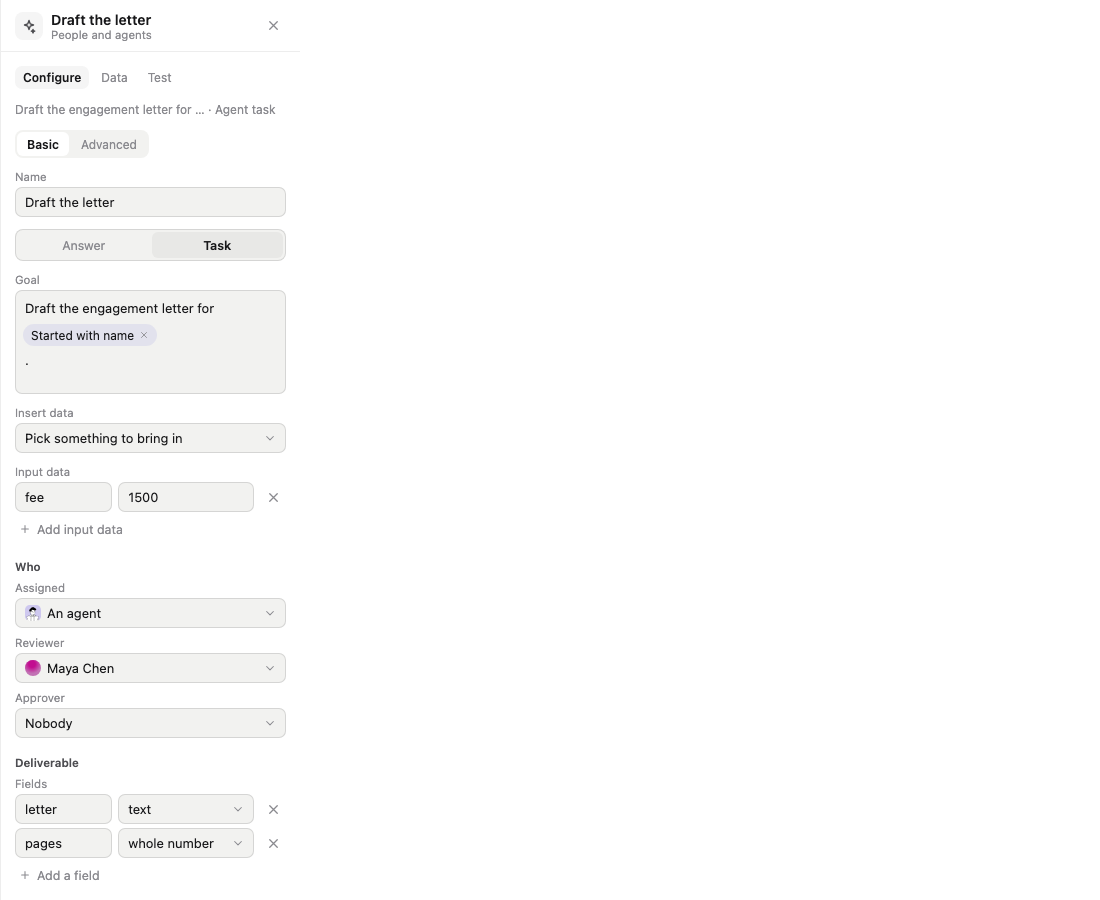
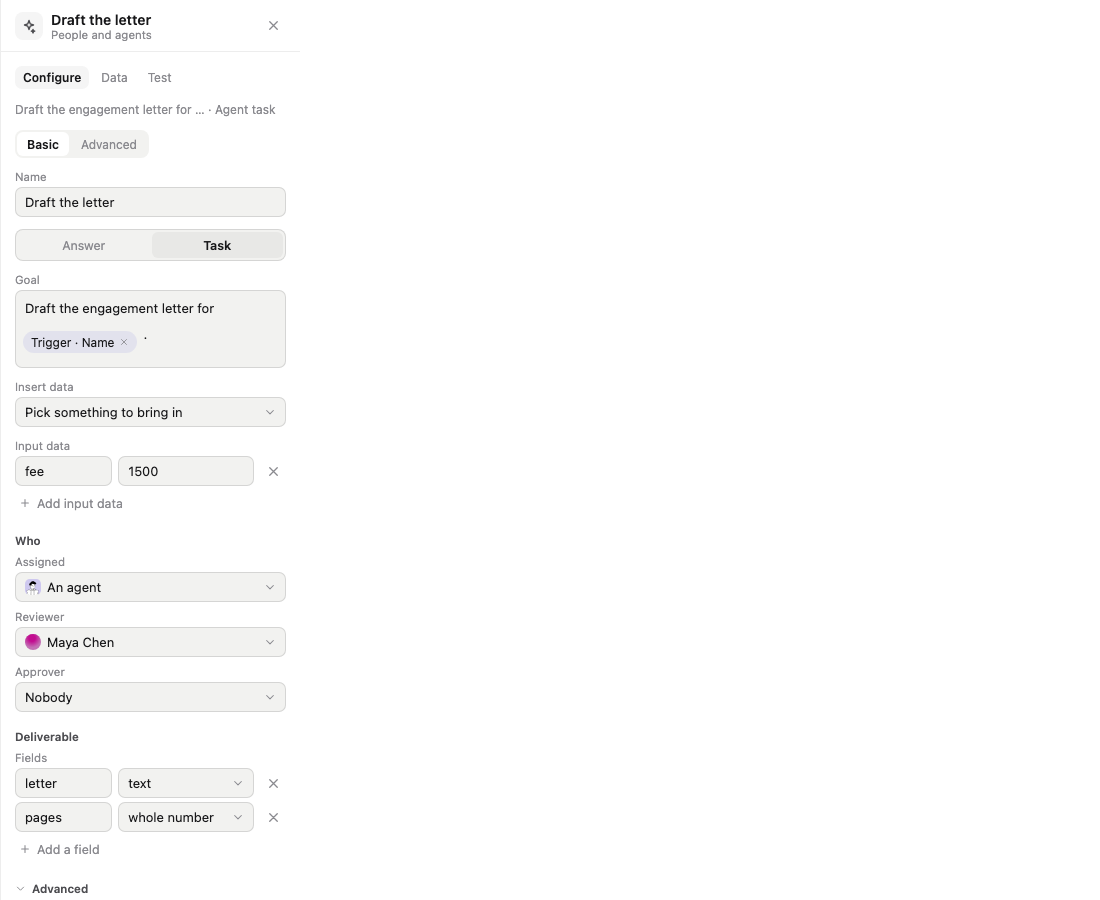
feat(ui): chip reads Trigger · Name and sits inline, shots of My work and the agent page

Changed region(s): [[0.0, 0.5911, 0.2164, 0.9956], [0.0, 0.3733, 0.1855, 0.5911]]

diff --git a/apps/app/src/places/chats/agentpage/WorkingOn.tsx b/apps/app/src/places/chats/agentpage/WorkingOn.tsx
@@ -1,4 +1,4 @@
-// "Working on" on the agent page (work baton): the tasks whose baton is with this agent right now, each with where it is in its steps. Nothing is drawn when the agent holds none, so a page of
+// "Tasks it holds" on the agent page (work baton; the Chats tab already has its own "Working on"): the tasks whose baton is with this agent right now, each with where it is in its steps. Nothing is drawn when the agent holds none, so a page of
 // an agent that does no task work stays as it was. A tap opens the task. Read through tasks.list as the person looking; a list that cannot be read draws nothing.
 import { useEffect, useState } from "react";
 import type { ReactElement } from "react";
@@ -40,8 +40,8 @@ export function WorkingOn(): ReactElement | null {
   }, [data, agentId]);
   if (held.length === 0) return null;
   return (
-    <View testID="working-on" accessibilityLabel="Working on" style={s.box}>
-      <Text accessibilityRole="header" style={s.head}>{`Working on  ${held.length}`}</Text>
+    <View testID="working-on" accessibilityLabel="Tasks it holds" style={s.box}>
+      <Text accessibilityRole="header" style={s.head}>{`Tasks it holds  ${held.length}`}</Text>
       {/* ui-rows-lint: not a list (the few tasks the agent holds, under its header) */}
       {held.slice(0, SHOWN).map(({ task, doing }) => <Row key={task.id} id={`working-${task.id}`} title={task.title} note={doing} onPress={data.nav.openTask ? () => data.nav.openTask!(task.id) : undefined} />)}
       {held.length > SHOWN ? <Text style={s.more}>{`${held.length - SHOWN} more`}</Text> : null}

diff --git a/apps/app/src/places/automations/canvas/steps/edits.ts b/apps/app/src/places/automations/canvas/steps/edits.ts
@@ -273,13 +273,14 @@ export function splitTemplate(value: string): Seg[] {
 }
 export const joinTemplate = (segs: readonly Seg[]): string => segs.map((s) => (s.kind === "text" ? s.text : `{{ ${s.ref} }}`)).join("");
 
-/** What a chip says, in words: what started the run, or a step's output (by the step's name) and the field. */
+/** What a chip says: where the data comes from, a dot, and which part of it (Trigger, Trigger · Name, Find rows · Count). */
 export function chipLabel(ref: string, titleOf: (stepId: string) => string): string {
-  if (ref === "trigger" || ref === "input") return "What started the run";
+  const cap = (w: string): string => w.replace(/[_-]+/g, " ").replace(/^\w/, (c) => c.toUpperCase());
+  if (ref === "trigger" || ref === "input") return "Trigger";
   const t = /^(?:trigger|input)\.(.+)$/.exec(ref);
-  if (t) return `Started with ${t[1]}`;
+  if (t) return `Trigger \u00b7 ${cap(t[1]!)}`;
   const st = /^steps\.([^.\[]+)\.out(?:\.(.+))?$/.exec(ref);
-  if (st) return `${titleOf(st[1]!)}${st[2] ? `: ${st[2]}` : ""}`;
+  if (st) return `${titleOf(st[1]!)}${st[2] ? ` \u00b7 ${cap(st[2])}` : ""}`;
   return ref;
 }
 

diff --git a/apps/app/src/places/automations/canvas/steps/edits.test.ts b/apps/app/src/places/automations/canvas/steps/edits.test.ts
@@ -158,10 +158,11 @@ test("a template is text and data chips, and goes back to the same string", () =
 
 test("chips say what they bring in, by the step's name, and dropping one joins the text around it", () => {
   const title = (id: string): string => (id === "find" ? "Find rows" : id);
-  assert.equal(chipLabel("trigger", title), "What started the run");
-  assert.equal(chipLabel("trigger.name", title), "Started with name");
+  assert.equal(chipLabel("trigger", title), "Trigger");
+  assert.equal(chipLabel("trigger.name", title), "Trigger \u00b7 Name");
+  assert.equal(chipLabel("trigger.first_name", title), "Trigger \u00b7 First name");
   assert.equal(chipLabel("steps.find.out", title), "Find rows");
-  assert.equal(chipLabel("steps.find.out.count", title), "Find rows: count");
+  assert.equal(chipLabel("steps.find.out.count", title), "Find rows \u00b7 Count");
   assert.equal(chipLabel("vars.x", title), "vars.x");
   assert.equal(joinTemplate(dropChip(splitTemplate("a {{ trigger }} b"), 1)), "a  b");
   assert.equal(addChip("Draft it", "trigger"), "Draft it {{ trigger }}");

diff --git a/apps/app/src/places/automations/canvas/fields.tsx b/apps/app/src/places/automations/canvas/fields.tsx
@@ -84,7 +84,7 @@ export function ChipText({ label, value, onCommit, chipLabel, placeholder, testI
           key={`t${i}`} accessibilityLabel={first ? label : `${label} part ${i / 2 + 1}`} testID={first ? testID : testID ? `${testID}-${i}` : undefined} value={seg.text} multiline
           placeholder={first && segs.length === 1 ? placeholder : undefined} placeholderTextColor="var(--ink-4)"
           onChangeText={(t) => edit(i, t)} onBlur={() => done(segs)} {...(hint && first ? webOnly({ title: hint }) : {})}
-          style={[f.chipInput, i < segs.length - 1 ? { flexGrow: 0, flexShrink: 1, height: 22, width: Math.min(280, Math.max(14, Math.round(seg.text.length * 7.4) + 8)) } : { flexGrow: 1, minWidth: 40, minHeight: 22 }]}
+          style={[f.chipInput, i < segs.length - 1 ? { flexGrow: 0, flexShrink: 1, height: 22, width: Math.min(280, Math.max(14, Math.round(seg.text.length * 7.4) + 8)) } : { flexGrow: 1, flexShrink: 1, minHeight: 22, width: Math.min(120, Math.max(14, Math.round(seg.text.length * 7.4) + 8)) }]}
         />,
       );
     } else {
